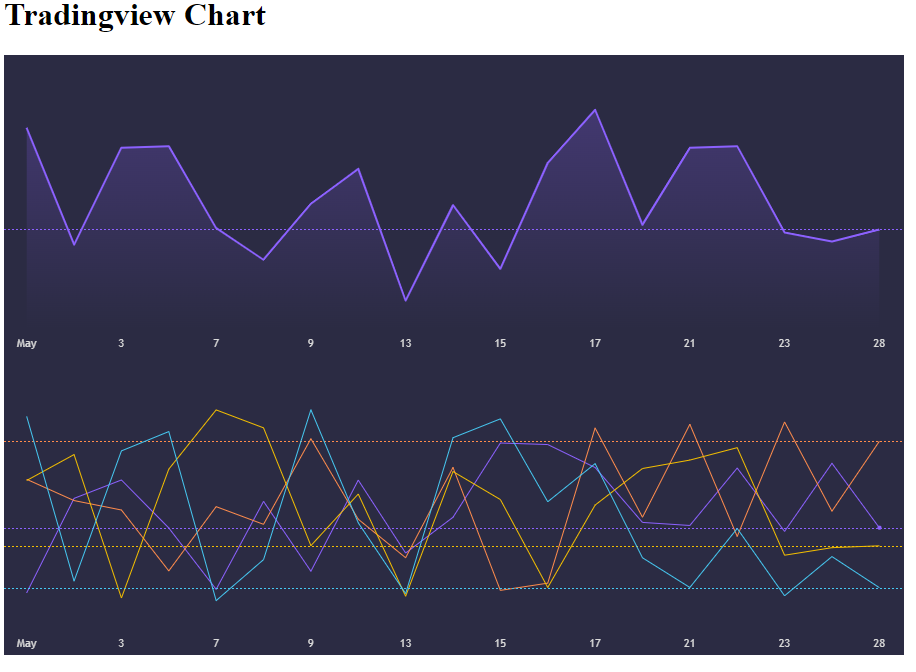
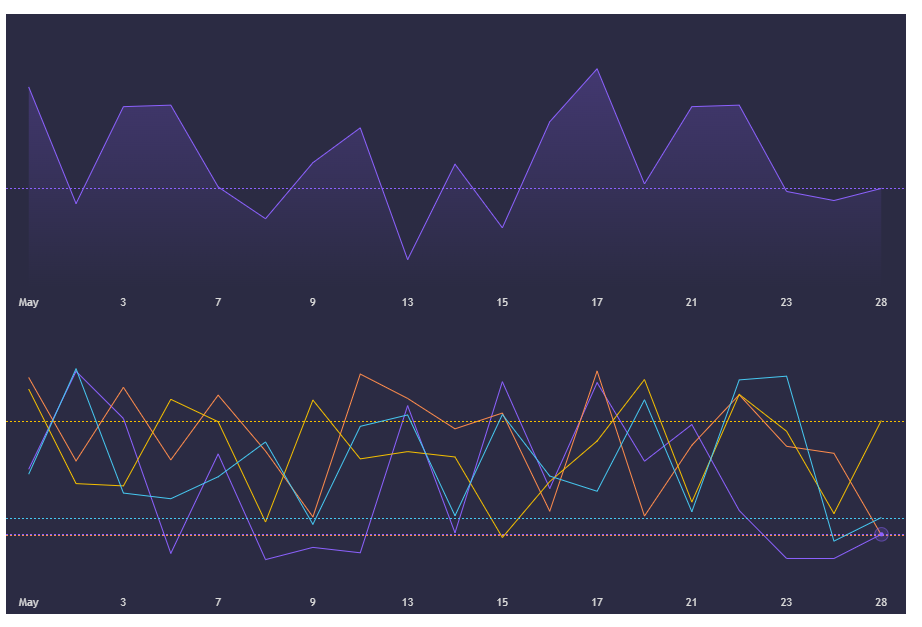
updates

diff --git a/src/index.ts b/src/index.ts
@@ -200,7 +200,7 @@ const areaSeries = areaChart.addAreaSeries({
     topColor: 'rgba(140, 97, 255, 0.3)',
     bottomColor: 'rgba(140, 97, 255, 0)',
     lineColor: '#8C61FF',
-    lineWidth: 2,
+    lineWidth: 1,
 });
 
 areaSeries.setData(data);
